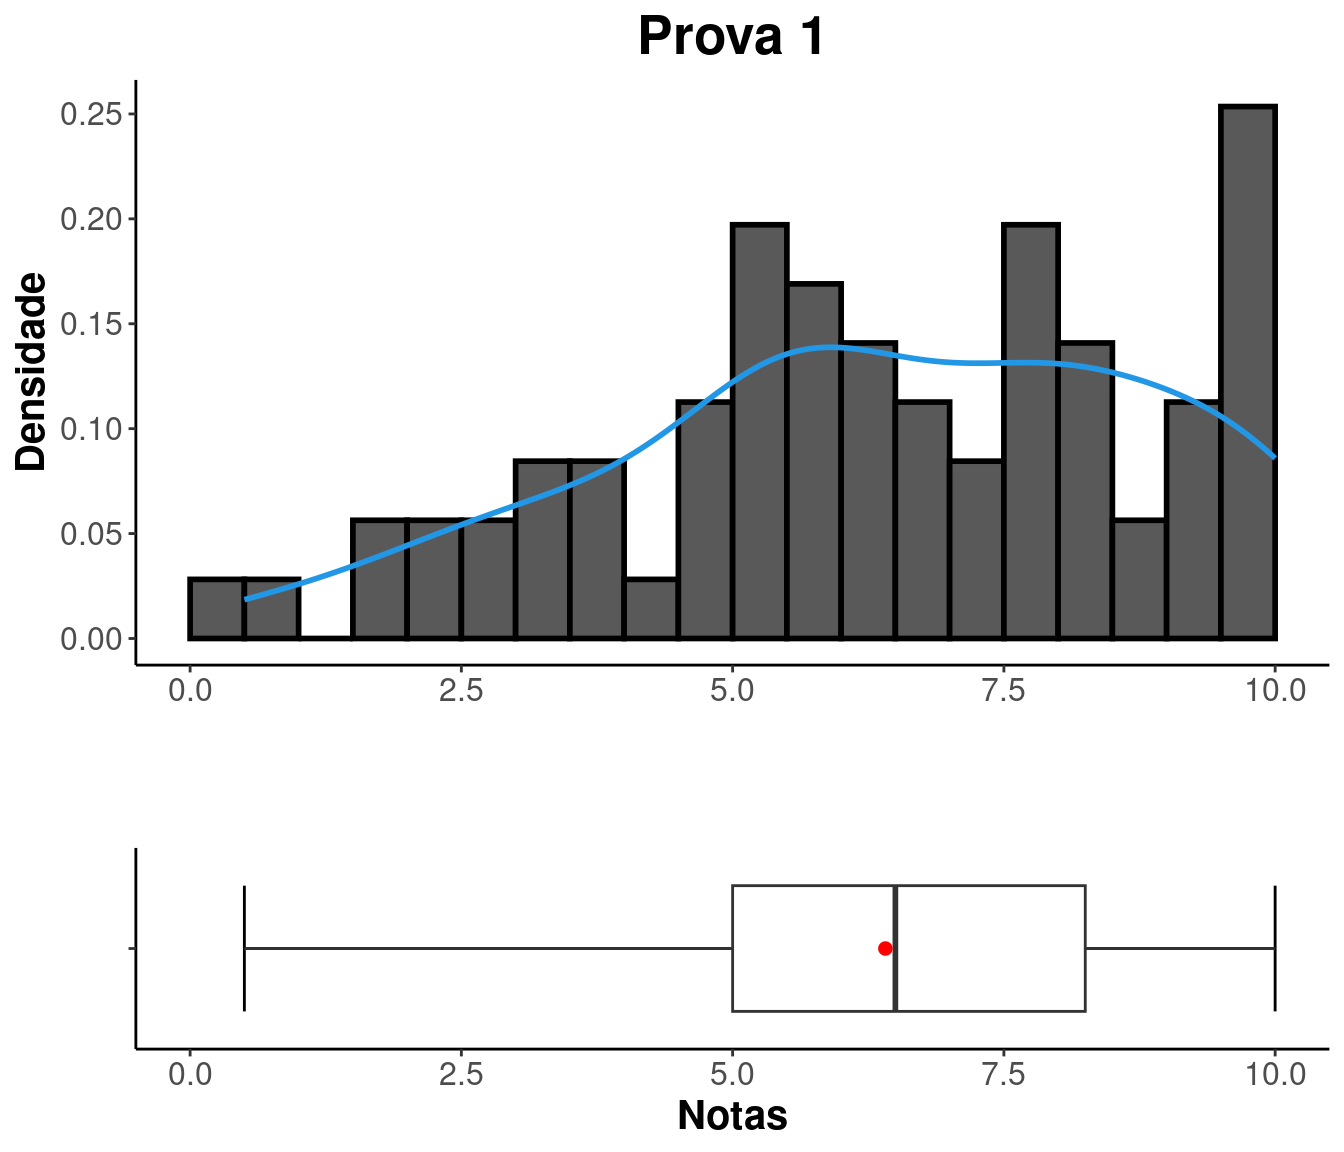
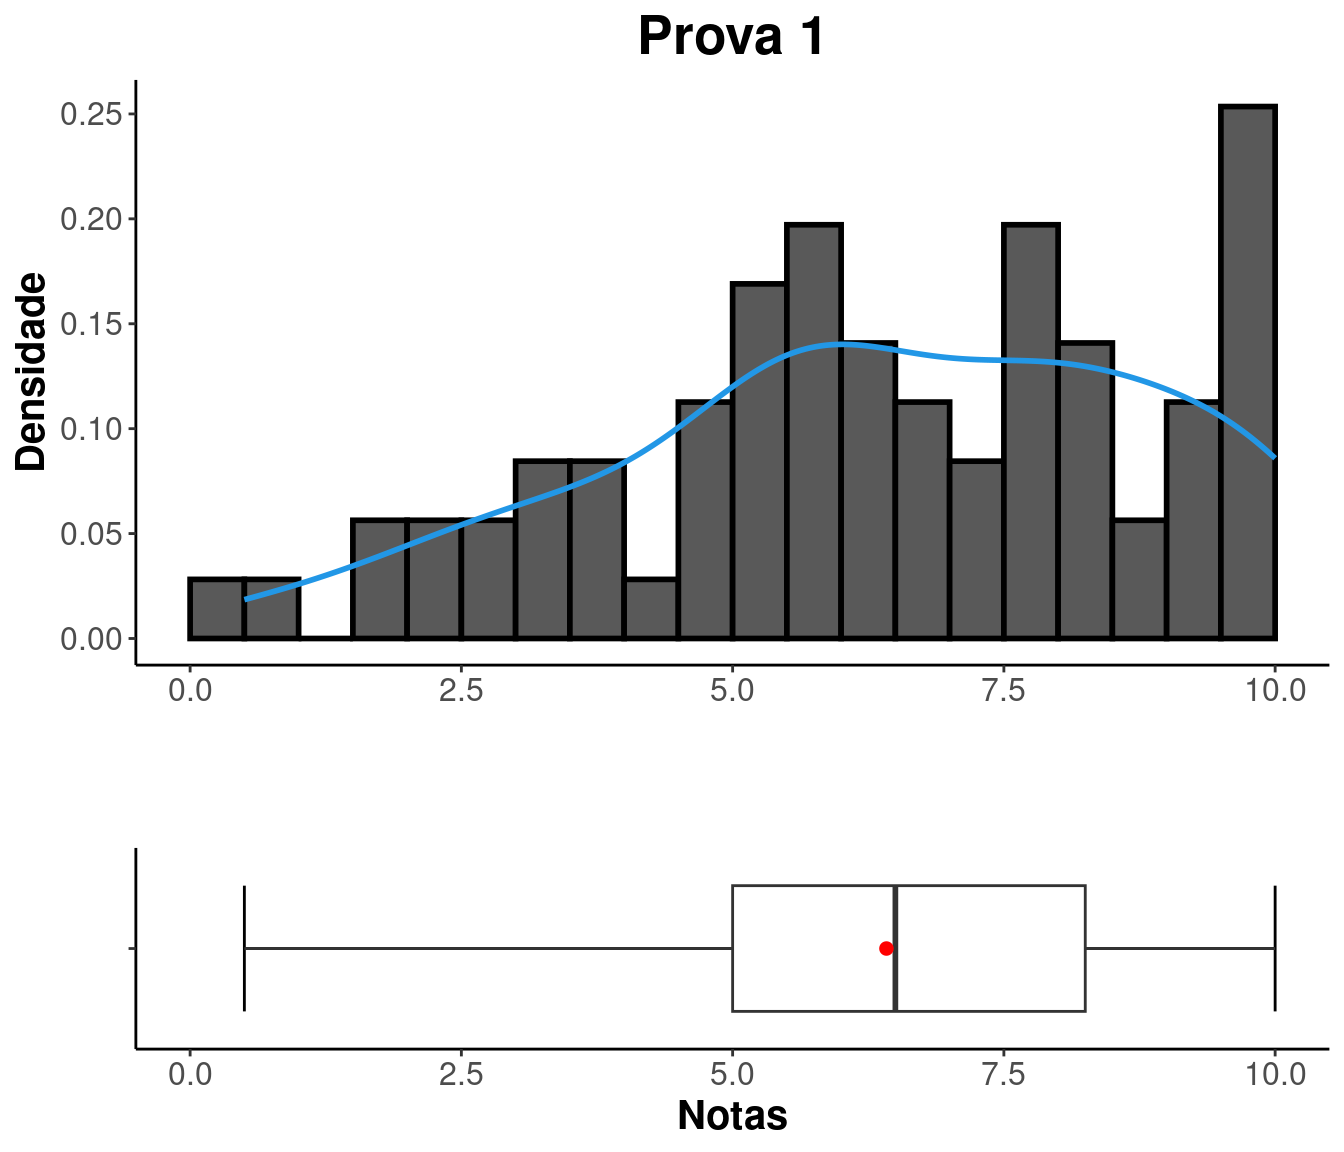
corrige codigo notas

diff --git a/notas.html b/notas.html
@@ -299,8 +299,8 @@ $(document).ready(function () {
 <p>Busque sua situação digitando seu GRR na caixa “Search”.</p>
 <p><br />
 </p>
-<div class="datatables html-widget html-fill-item-overflow-hidden html-fill-item" id="htmlwidget-2cfbb0a841d2f09a7224" style="width:100%;height:auto;"></div>
-<script type="application/json" data-for="htmlwidget-2cfbb0a841d2f09a7224">{"x":{"filter":"none","vertical":false,"editable":{"target":"cell","disable":{"columns":null},"numeric":[1,2,3,4,5,6,7,8,9],"date":[]},"data":[["GRR20214415","GRR20221525","GRR20221517","GRR20164993","GRR20220182","GRR20221528","GRR20221547","GRR20221529","GRR20190881","GRR20195166","GRR20190779","GRR20190893","GRR20221537","GRR20189973","GRR20221522","GRR20201104","GRR20172662","GRR20205685","GRR20190862","GRR20212136","GRR20190860","GRR20220176","GRR20190837","GRR20215549","GRR20214407","GRR20220186","GRR20190804","GRR20221544","GRR20221512","GRR20221538","GRR20212127","GRR20205340","GRR20201144","GRR20190928","GRR20201103","GRR20210740","GRR20174617","GRR20223869","GRR20212139","GRR20223866","GRR20212144","GRR20224178","GRR20215547","GRR20210733","GRR20224434","GRR20221513","GRR20210497","GRR20223868","GRR20204772","GRR20220187","GRR20212109","GRR20206179","GRR20223865","GRR20212108","GRR20201142","GRR20190853","GRR20211315","GRR20205330","GRR20220184","GRR20190855","GRR20221533","GRR20223867","GRR20221531","GRR20190954","GRR20221550","GRR20221514","GRR20221539","GRR20221548","GRR20220181","GRR20172657","GRR20224438","GRR20212122","GRR20165605","GRR20210737","GRR20212135","GRR20214411","GRR20221535","GRR20221549","GRR20205319","GRR20201127"],[8,0,20,24,20,4,0,15,24,12,4,8,0,32,12,12,4,24,20,36,0,0,0,4,16,0,0,8,0,0,16,12,4,8,16,0,4,4,12,0,36,12,8,0,12,8,24,8,0,56,12,60,4,4,64,8,8,64,0,20,12,12,8,0,4,0,20,8,8,0,52,4,0,12,4,16,8,0,4,8],[3.5,9.9,2.1,6.5,4.8,7.5,8,3.6,null,10,8.300000000000001,6.3,10,null,3.5,7.8,7,null,2.8,null,8.800000000000001,10,8,5.2,6.6,10,7.6,7.4,9.6,10,5.4,10,9.300000000000001,6,5.5,8.5,7,5.5,2,6.1,null,5.6,9.300000000000001,9.1,5.6,8.1,3.8,8.300000000000001,9.199999999999999,null,8,null,8.199999999999999,6,null,6.6,5.2,null,9.800000000000001,0.75,5.3,2.8,8.9,0.5,5,5.2,4.4,5,6.5,2.5,1.8,8,3.4,4,4.7,7.5,5.7,6.5,5.8,7.8],[0.4,7,null,null,null,2.5,5.6,9.4,null,9,5.5,4,10,null,null,5,2,null,null,null,6.5,10,1.5,1.5,null,5,5.6,2.5,7.7,9.699999999999999,1.4,10,9,4.3,null,9.9,4,0.5,null,0.4,null,null,3.2,9.6,1.5,1.6,null,5.4,9.5,null,2,null,5,3,null,3.5,null,null,8.6,null,null,1.1,null,0,5.3,6.5,null,null,7.4,1.3,null,5.2,6,null,1,null,null,0.7,null,6.8],[0.6,7.7,null,null,null,1.5,7,6.1,null,4.3,7.7,null,9.9,null,null,2.5,0.1,null,null,null,7.1,10,1,null,null,5.4,5.6,4.3,7.5,9.5,null,10,8.5,3.5,null,7.8,3.5,0.6,null,null,null,null,7,8.199999999999999,null,0.4,null,3.2,8.300000000000001,null,null,null,7.1,3,null,6.6,null,null,8.4,null,null,null,null,0,4.4,6,null,null,5,4.5,null,null,6,null,1,null,null,1.6,null,2.6],[2.8,8.9,0,0,6.9,9.699999999999999,7.1,6,0,10,9.800000000000001,7.1,10,0,7,7.2,4.3,0,0,0,10,10,10,5.2,0,8.800000000000001,9.6,8.5,0,10,4.3,3.3,10,10,7.7,0,6.5,2.2,2.2,7.4,0,6.3,8.4,9.5,0,7.4,0,9.4,10,0,0,0,10,0,0,10,4.4,0,7,3.2,7.2,5.8,9.9,1.6,9,9.699999999999999,8.4,1.7,10,8,0,8.800000000000001,10,3.6,5.4,8.699999999999999,5.8,7.8,4.9,6.4],[7,9.4,0,0,0,6.8,9,7.5,0,9.300000000000001,7.7,3.2,9.699999999999999,0,4.7,8.300000000000001,5.9,0,0,0,9.199999999999999,10,0,8,0,8.9,7.9,5.2,9.699999999999999,9.6,2.6,0,9.800000000000001,7.8,5.1,9.699999999999999,2,7.7,4.7,5.2,0,5.7,8.300000000000001,9.199999999999999,3.9,6.9,4.7,0,9.699999999999999,0,0,0,7.2,4.1,0,8.5,0,0,7.2,0,0,2.4,8.5,2.1,8.300000000000001,8.800000000000001,0,3.9,7.4,7.3,0,6.8,8.699999999999999,0,4.9,5.5,4.7,5.4,7.6,9.699999999999999],[6.3,5.4,0,0,0,6.5,6.8,8.5,0,4.9,5.3,4.3,7,0,0,3.9,0,0,0,0,5.3,9.5,6.4,6.9,0,4.7,8.300000000000001,7,9.4,8.4,0.8,0,0,5.6,5.4,6.6,0,6.3,0,0,0,0,4.2,6.9,0,2.9,1.5,0,6.6,0,0,0,2,2,0,9.6,0,0,7.2,0,0,0,0,0.5,0,8.800000000000001,0,3.1,6.6,7.3,0,6.5,8.699999999999999,0,4.3,3.9,0,5,4.6,0],[7.5,6,0,0,0,4.2,6.8,0,0,6.6,8.800000000000001,0,10,0,0,0,5.9,0,0,0,9,10,9.800000000000001,0,0,6,10,6.8,8.4,8,0,9.800000000000001,8.4,9,0,7.8,6.3,5.8,0,0,0,0,8.300000000000001,7.6,0,6,0,4.8,10,0,0,0,6.3,2.6,0,10,0,0,6.2,0,0,0,3.7,0.8,0,6.7,0,0,6.3,8.1,0,0,8.6,0,0,0,0,7.7,0,9.5],[3.3,8.300000000000001,0.7,2.2,1.6,5.6,7.5,7,0,8.9,8,3.4,10,0,1.2,5.9,4.3,0,0.9,0,8.1,10,5.4,3.4,2.2,7.5,7.4,6.2,8.300000000000001,9.699999999999999,2.4,10,8.9,6.1,1.8,8.699999999999999,4.9,3.9,0.7,3.1,0,1.9,7.9,9,2.4,5.2,1.3,5.8,9.300000000000001,0,3.3,0,7.2,4,0,7.6,1.7,0,8.9,0.3,1.8,1.6,3,0.6,4.9,7,1.5,1.7,7.2,4.9,0.6,4.5,7,1.3,3.1,2.5,1.9,4.9,1.9,7],["REPROVADO","APROVADO","REPROVADO","REPROVADO","REPROVADO","EXAME","APROVADO","APROVADO","REPROVADO","APROVADO","APROVADO","REPROVADO","APROVADO","REPROVADO","REPROVADO","EXAME","EXAME","REPROVADO","REPROVADO","REPROVADO","APROVADO","APROVADO","EXAME","REPROVADO","REPROVADO","APROVADO","APROVADO","EXAME","APROVADO","APROVADO","REPROVADO","APROVADO","APROVADO","EXAME","REPROVADO","APROVADO","EXAME","REPROVADO","REPROVADO","REPROVADO","REPROVADO","REPROVADO","APROVADO","APROVADO","REPROVADO","EXAME","REPROVADO","EXAME","APROVADO","REPROVADO","REPROVADO","REPROVADO","APROVADO","EXAME","REPROVADO","APROVADO","REPROVADO","REPROVADO","APROVADO","REPROVADO","REPROVADO","REPROVADO","REPROVADO","REPROVADO","EXAME","APROVADO","REPROVADO","REPROVADO","APROVADO","EXAME","REPROVADO","EXAME","APROVADO","REPROVADO","REPROVADO","REPROVADO","REPROVADO","EXAME","REPROVADO","APROVADO"]],"container":"<table class=\"cell-border stripe\">\n  <thead>\n    <tr>\n      <th>GRR<\/th>\n      <th>FALTAS<\/th>\n      <th>PROVA 1<\/th>\n      <th>PROVA 2<\/th>\n      <th>PROVA 3<\/th>\n      <th>REMOTA 1<\/th>\n      <th>REMOTA 2<\/th>\n      <th>REMOTA 3<\/th>\n      <th>REMOTA 4<\/th>\n      <th>NOTAS PRÉ EXAME<\/th>\n      <th>SITUAÇÃO PRÉ EXAME<\/th>\n    <\/tr>\n  <\/thead>\n<\/table>","options":{"columnDefs":[{"className":"dt-right","targets":[1,2,3,4,5,6,7,8,9]}],"order":[],"autoWidth":false,"orderClasses":false}},"evals":[],"jsHooks":[]}</script>
+<div class="datatables html-widget html-fill-item-overflow-hidden html-fill-item" id="htmlwidget-511d6f54828abdb201ab" style="width:100%;height:auto;"></div>
+<script type="application/json" data-for="htmlwidget-511d6f54828abdb201ab">{"x":{"filter":"none","vertical":false,"editable":{"target":"cell","disable":{"columns":null},"numeric":[1,2,3,4,5,6,7,8,9],"date":[]},"data":[["GRR20214415","GRR20221525","GRR20221517","GRR20164993","GRR20220182","GRR20221528","GRR20221547","GRR20221529","GRR20190881","GRR20195166","GRR20190779","GRR20190893","GRR20221537","GRR20189973","GRR20221522","GRR20201104","GRR20172662","GRR20205685","GRR20190862","GRR20212136","GRR20190860","GRR20220176","GRR20190837","GRR20215549","GRR20214407","GRR20220186","GRR20190804","GRR20221544","GRR20221512","GRR20221538","GRR20212127","GRR20205340","GRR20201144","GRR20190928","GRR20201103","GRR20210740","GRR20174617","GRR20223869","GRR20212139","GRR20223866","GRR20212144","GRR20224178","GRR20215547","GRR20210733","GRR20224434","GRR20221513","GRR20210497","GRR20223868","GRR20204772","GRR20220187","GRR20212109","GRR20206179","GRR20223865","GRR20212108","GRR20201142","GRR20190853","GRR20211315","GRR20205330","GRR20220184","GRR20190855","GRR20221533","GRR20223867","GRR20221531","GRR20190954","GRR20221550","GRR20221514","GRR20221539","GRR20221548","GRR20220181","GRR20172657","GRR20224438","GRR20212122","GRR20165605","GRR20210737","GRR20212135","GRR20214411","GRR20221535","GRR20221549","GRR20205319","GRR20201127"],[8,0,20,24,20,4,0,15,24,12,4,8,0,32,12,12,4,24,20,36,0,0,0,4,16,0,0,8,0,0,16,12,4,8,16,0,4,4,12,0,36,12,8,0,12,8,24,8,0,56,12,60,4,4,64,8,8,64,0,20,12,12,8,0,4,0,20,8,8,0,52,4,0,12,4,15,8,0,4,8],[3.5,9.9,2.1,6.5,4.8,7.5,8,3.6,null,10,8.300000000000001,6.3,10,null,3.5,7.8,7,null,2.8,null,8.800000000000001,10,8,5.4,6.6,10,7.6,7.4,9.6,10,5.4,10,9.300000000000001,6,5.5,8.5,7,6,2,6.1,null,5.6,9.300000000000001,9.1,5.6,8.1,3.8,8.300000000000001,9.199999999999999,null,8,null,8.199999999999999,6,null,6.6,5.2,null,9.800000000000001,0.75,5.3,2.8,8.9,0.5,5,5.2,4.4,5,6.5,2.5,1.8,8,3.4,4,4.7,7.5,5.7,6.5,5.8,7.8],[0.4,7,null,null,null,2.5,5.6,9.4,null,9,5.5,4,10,null,null,5,2,null,null,null,6.5,10,1.5,1.5,null,5,5.6,2.5,7.7,9.699999999999999,1.4,10,9,4.3,null,9.9,4,0.6,null,0.4,null,null,3.2,9.6,1.5,1.6,null,5.4,9.5,null,2,null,5,3,null,3.5,null,null,8.6,null,null,1.1,null,0,5.3,6.5,null,null,7.4,1.3,null,5.2,6,null,1,null,null,0.7,null,6.8],[0.6,7.7,null,null,null,1.5,7,6.1,null,4.3,7.7,null,9.9,null,null,2.5,0.1,null,null,null,7.1,10,1,null,null,5.4,5.6,4.3,7.5,9.5,null,10,8.5,3.5,null,7.8,3.5,0.6,null,null,null,null,7,8.199999999999999,null,0.4,null,3.2,8.300000000000001,null,null,null,7.1,3,null,6.6,null,null,8.4,null,null,null,null,0,4.4,6,null,null,5,4.5,null,null,6,null,1,null,null,1.6,null,2.6],[2.8,8.9,0,0,6.9,9.699999999999999,7.1,6,0,10,9.800000000000001,7.1,10,0,7,7.2,4.3,0,0,0,10,10,10,5.2,0,8.800000000000001,9.6,8.5,0,10,4.3,3.3,10,10,7.7,0,6.5,2.2,2.2,7.4,0,6.3,8.4,9.5,0,7.4,0,9.4,10,0,0,0,10,0,0,10,4.4,0,7,3.2,7.2,5.8,9.9,1.6,9,9.699999999999999,8.4,1.7,10,8,0,8.800000000000001,10,3.6,5.4,8.699999999999999,5.8,7.8,4.9,6.4],[7,9.4,0,0,0,6.8,9,7.5,0,9.300000000000001,7.7,3.2,9.699999999999999,0,4.7,8.300000000000001,5.9,0,0,0,9.199999999999999,10,0,8,0,8.9,7.9,5.2,9.699999999999999,9.6,2.6,0,9.800000000000001,7.8,5.1,9.699999999999999,2,7.7,4.7,5.2,0,5.7,8.300000000000001,9.199999999999999,3.9,6.9,4.7,0,9.699999999999999,0,0,0,7.2,4.1,0,8.5,0,0,7.2,0,0,2.4,8.5,2.1,8.300000000000001,8.800000000000001,0,3.9,7.4,7.3,0,6.8,8.699999999999999,0,4.9,5.5,4.7,5.4,7.6,9.699999999999999],[6.3,5.4,0,0,0,6.5,6.8,8.5,0,4.9,5.3,4.3,7,0,0,3.9,0,0,0,0,5.3,9.5,6.4,6.9,0,4.7,8.300000000000001,7,9.4,8.4,0.8,0,0,5.6,5.4,6.6,0,6.3,0,0,0,0,4.2,6.9,0,2.9,1.5,0,6.6,0,0,0,2,2,0,9.6,0,0,7.2,0,0,0,0,0.5,0,8.800000000000001,0,3.1,6.6,7.3,0,6.5,8.699999999999999,0,4.3,3.9,0,5,4.6,0],[7.5,6,0,0,0,4.2,6.8,0,0,6.6,8.800000000000001,0,10,0,0,0,5.9,0,0,0,9,10,9.800000000000001,0,0,6,10,6.8,8.4,8,0,9.800000000000001,8.4,9,0,7.8,6.3,5.8,0,0,0,0,8.300000000000001,7.6,0,6,0,4.8,10,0,0,0,6.3,2.6,0,10,0,0,6.2,0,0,0,3.7,0.8,0,6.7,0,0,6.3,8.1,0,0,8.6,0,0,0,0,7.7,0,9.5],[3.3,8.300000000000001,0.7,2.2,2.2,5.6,7.5,7,0,8.9,8,4.6,10,0,2.1,5.9,4.3,0,0.9,0,8.1,10,5.4,4,2.2,7.5,7.4,6.2,8.300000000000001,9.699999999999999,2.9,10,8.9,6.1,3.4,8.699999999999999,4.9,4,1.2,3.2,0,2.9,7.9,9,2.7,5.2,1.8,5.8,9.300000000000001,0,3.3,0,7.2,4,0,7.6,2.1,0,8.9,0.5,2.4,2,4.8,0.6,4.9,7,2.2,2.4,7.2,4.9,0.6,6.2,7,1.6,3.1,4,2.8,4.9,3.4,7],["REPROVADO","APROVADO","REPROVADO","REPROVADO","REPROVADO","EXAME","APROVADO","APROVADO","REPROVADO","APROVADO","APROVADO","EXAME","APROVADO","REPROVADO","REPROVADO","EXAME","EXAME","REPROVADO","REPROVADO","REPROVADO","APROVADO","APROVADO","EXAME","EXAME","REPROVADO","APROVADO","APROVADO","EXAME","APROVADO","APROVADO","REPROVADO","APROVADO","APROVADO","EXAME","REPROVADO","APROVADO","EXAME","EXAME","REPROVADO","REPROVADO","REPROVADO","REPROVADO","APROVADO","APROVADO","REPROVADO","EXAME","REPROVADO","EXAME","APROVADO","REPROVADO","REPROVADO","REPROVADO","APROVADO","EXAME","REPROVADO","APROVADO","REPROVADO","REPROVADO","APROVADO","REPROVADO","REPROVADO","REPROVADO","EXAME","REPROVADO","EXAME","APROVADO","REPROVADO","REPROVADO","APROVADO","EXAME","REPROVADO","EXAME","APROVADO","REPROVADO","REPROVADO","EXAME","REPROVADO","EXAME","REPROVADO","APROVADO"]],"container":"<table class=\"cell-border stripe\">\n  <thead>\n    <tr>\n      <th>GRR<\/th>\n      <th>FALTAS<\/th>\n      <th>PROVA 1<\/th>\n      <th>PROVA 2<\/th>\n      <th>PROVA 3<\/th>\n      <th>REMOTA 1<\/th>\n      <th>REMOTA 2<\/th>\n      <th>REMOTA 3<\/th>\n      <th>REMOTA 4<\/th>\n      <th>NOTAS PRÉ EXAME<\/th>\n      <th>SITUAÇÃO PRÉ EXAME<\/th>\n    <\/tr>\n  <\/thead>\n<\/table>","options":{"columnDefs":[{"className":"dt-right","targets":[1,2,3,4,5,6,7,8,9]}],"order":[],"autoWidth":false,"orderClasses":false}},"evals":[],"jsHooks":[]}</script>
 <hr />
 </div>
 <div id="análise-das-notas"
@@ -336,7 +336,7 @@ class="section level1 tabset tabset-fade tabset-pills">
 <td align="center">71</td>
 <td align="center">0.5</td>
 <td align="center">5</td>
-<td align="center">6.408</td>
+<td align="center">6.418</td>
 <td align="center">6.5</td>
 <td align="center">8.25</td>
 <td align="center">10</td>
@@ -359,8 +359,8 @@ class="section level1 tabset tabset-fade tabset-pills">
 <tbody>
 <tr class="odd">
 <td align="center">9.5</td>
-<td align="center">6.15</td>
-<td align="center">2.48</td>
+<td align="center">6.134</td>
+<td align="center">2.477</td>
 </tr>
 </tbody>
 </table>
@@ -397,7 +397,7 @@ class="section level1 tabset tabset-fade tabset-pills">
 <td align="center">50</td>
 <td align="center">0</td>
 <td align="center">1.7</td>
-<td align="center">4.882</td>
+<td align="center">4.884</td>
 <td align="center">5</td>
 <td align="center">7.3</td>
 <td align="center">10</td>
@@ -420,8 +420,8 @@ class="section level1 tabset tabset-fade tabset-pills">
 <tbody>
 <tr class="odd">
 <td align="center">10</td>
-<td align="center">10.37</td>
-<td align="center">3.219</td>
+<td align="center">10.35</td>
+<td align="center">3.217</td>
 </tr>
 </tbody>
 </table>
